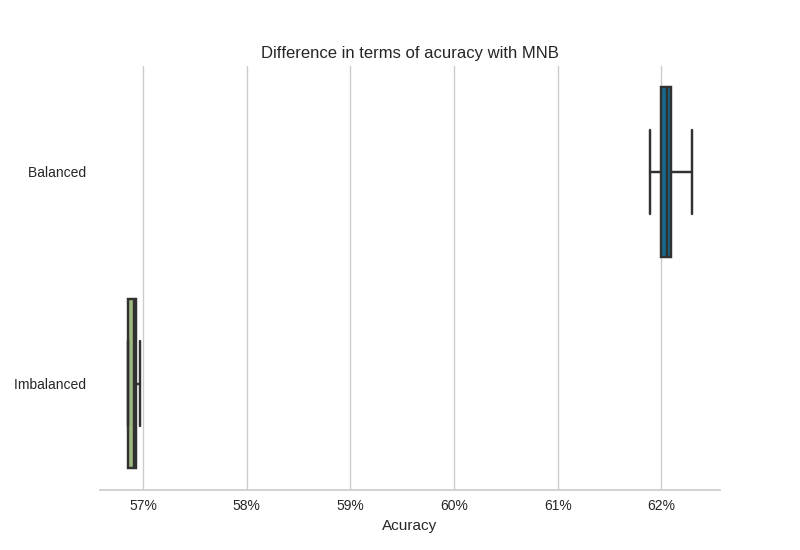
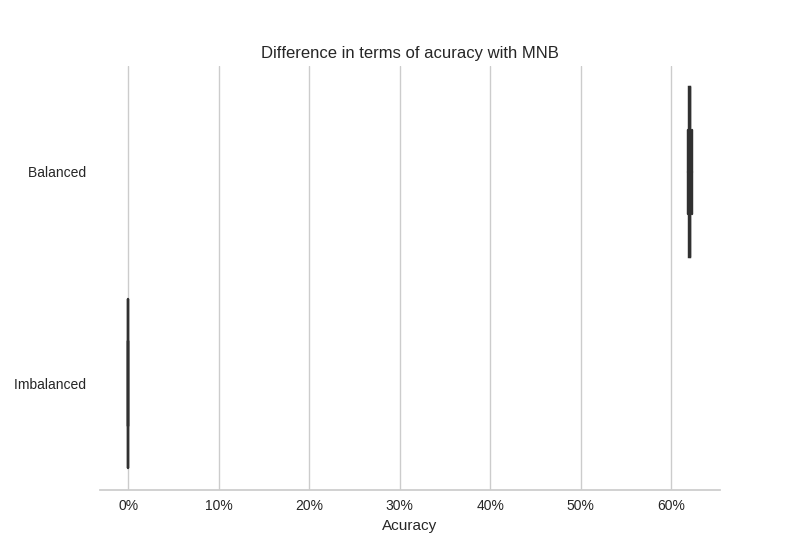
Testando um modelo que todos os dados são balanceados

diff --git a/dissertacao/5_3_selecao_modelo.py b/dissertacao/5_3_selecao_modelo.py
@@ -1,0 +1,233 @@
+import itertools
+import warnings
+import time
+import multiprocessing
+
+import numpy as np
+import pandas as pd
+import seaborn as sns
+import matplotlib.pyplot as plt
+from imblearn.under_sampling import EditedNearestNeighbours
+from sklearn.ensemble import RandomForestClassifier
+from sklearn.model_selection import cross_val_score, StratifiedKFold, \
+    StratifiedShuffleSplit
+from sklearn.naive_bayes import MultinomialNB
+from sklearn.neighbors import KNeighborsClassifier
+from sklearn.metrics import confusion_matrix, classification_report
+from sklearn.svm import SVC
+from yellowbrick.features import RFECV
+
+warnings.filterwarnings('ignore')
+pd.set_option('display.max_columns', None)  # display all columns
+pd.set_option('display.width', 2000)  # display all columns
+
+dados_completo = pd.read_csv('../input/DadosCompletoTransformadoML.csv', encoding='utf-8', delimiter='\t')
+dados_completo.drop(dados_completo.columns[0], axis=1, inplace=True)
+
+random_state = 42
+n_jobs = multiprocessing.cpu_count() - 3
+
+
+def mostrar_quantidade_por_classe(df, classe):
+    print(df.loc[df['acabamento'] == classe].info())
+
+
+def mostrar_correlacao(dados, classe):
+    matriz_correlacao = dados.corr()
+    print('Correlaçao com ' + classe + '\n', matriz_correlacao[classe].sort_values(ascending=False))
+
+    colunas = ['C', 'F', 'M', 'mat', 'peso', '% class', 'out_inc', 'fab_rac', 'area_conf', 'area_man_80_cob',
+               'area_man_20_er', 'id_ind', 'sisbov', 'cont_past', 'lita_trace', 'atest_prog_quali', 'envolvido_org',
+               'confi', 'semi_confi', 'suple', 'ferti', 'ifp', 'ilp', 'ilpf', 'lat', 'lon', 'prec', 'acab']
+    fig = plt.figure()
+    ax = fig.add_subplot(111)
+    cax = ax.matshow(matriz_correlacao, vmin=-1, vmax=1)
+    fig.colorbar(cax)
+    ticks = np.arange(0, 28, 1)
+    ax.set_xticks(ticks)
+    ax.set_yticks(ticks)
+    ax.set_xticklabels(colunas)
+    ax.set_yticklabels(colunas)
+    plt.xticks(rotation=90)
+    plt.savefig('corr.png')
+    plt.show()
+
+
+# mostrar_correlacao(dados_completo, 'acabamento')
+classes_balancear = list([2, 3])
+print('Classes para balancear', classes_balancear)
+balanceador = EditedNearestNeighbours(n_jobs=n_jobs, kind_sel='mode',
+                                      sampling_strategy=classes_balancear, n_neighbors=4)
+print(balanceador)
+
+test_size = 0.2
+train_size = 0.8
+print(((train_size * 100), '/', test_size * 100))
+X_completo = dados_completo.drop(['acabamento'], axis=1)
+Y_completo = dados_completo['acabamento']
+
+X_dados_completo, Y_dados_completo = balanceador.fit_resample(
+    dados_completo.drop('acabamento', axis=1),
+    dados_completo['acabamento'])
+X_dados_completo = pd.DataFrame(data=X_dados_completo, columns=X_completo.columns)
+Y_dados_completo = pd.DataFrame(data=Y_dados_completo, columns=['acabamento'])
+dados_completo = X_dados_completo.join(Y_dados_completo)
+
+conjunto_treinamento = pd.DataFrame()
+conjunto_teste = pd.DataFrame()
+split = StratifiedShuffleSplit(n_splits=1, train_size=train_size, test_size=test_size, random_state=random_state)
+for trainamento_index, teste_index in split.split(X_completo, Y_completo):
+    conjunto_treinamento = dados_completo.loc[trainamento_index]
+    conjunto_teste = dados_completo.loc[teste_index]
+
+conjunto_treinamento.to_csv('../input/DadosCompletoTransformadoMLBalanceadoTreino.csv', encoding='utf-8', sep='\t')
+conjunto_teste.to_csv('../input/DadosCompletoTransformadoMLBalanceadoTeste.csv', encoding='utf-8', sep='\t')
+exit()
+conjunto_treinamento = pd.read_csv('../input/DadosCompletoTransformadoMLBalanceadoTreino.csv', encoding='utf-8', delimiter='\t')
+conjunto_treinamento.drop(conjunto_treinamento.columns[0], axis=1, inplace=True)
+conjunto_teste = pd.read_csv('../input/DadosCompletoTransformadoMLBalanceadoTeste.csv', encoding='utf-8', delimiter='\t')
+conjunto_teste.drop(conjunto_teste.columns[0], axis=1, inplace=True)
+
+X_treino, Y_treino = conjunto_treinamento.drop('acabamento', axis=1), conjunto_treinamento['acabamento']
+print('X Treino', X_treino.describe())
+X_teste, Y_teste = conjunto_teste.drop('acabamento', axis=1), conjunto_teste['acabamento']
+
+resultado = pd.DataFrame()
+resultado["id"] = Y_teste.index
+resultado["item.classe"] = Y_teste.values
+resultado.to_csv("y_teste.csv", encoding='utf-8', index=False)
+
+
+def fazer_selecao_features_rfe():
+    features = X_treino.columns
+    rfe = RFECV(RandomForestClassifier(random_state=random_state, oob_score=True, n_estimators=250, criterion='entropy',
+                                       max_depth=75, max_features='log2', min_samples_leaf=1, min_samples_split=2),
+                cv=kfold, scoring='accuracy')
+
+    rfe.fit(X_treino, Y_treino.values.ravel())
+    print(rfe.poof())
+    print("Caraterísticas ordenadas pelo rank RFE:")
+    print(sorted(zip(map(lambda x: round(x, 4), rfe.ranking_), features)))
+    ranking = sorted(zip(rfe.support_, features))
+    print("Características selecionadas", ranking)
+    return rfe.transform(X_treino)
+
+
+num_folds = 5
+scoring = 'accuracy'
+kfold = StratifiedKFold(n_splits=num_folds, random_state=random_state)
+# print(fazer_selecao_features_rfe())
+# exit()
+
+# preparando alguns modelos
+modelos_base = [
+    ('MNB', MultinomialNB()),
+    ('RFC', RandomForestClassifier(random_state=random_state, oob_score=True, n_estimators=250, criterion='entropy',
+                                   max_depth=75, max_features='log2', min_samples_leaf=1, min_samples_split=2)),
+    ('K-NN', KNeighborsClassifier()),  # n_jobs=-1 roda com o mesmo número de cores
+    ('SVM', SVC())
+]
+
+
+def plot_confusion_matrix(cm, nome, classes,
+                          normalize=False,
+                          title='Confusion matrix',
+                          cmap=plt.cm.gray):
+    """
+    This function prints and plots the confusion matrix.
+    Normalization can be applied by setting `normalize=True`.
+    """
+    plt.figure()
+    if normalize:
+        cm = cm.astype('float') / cm.sum(axis=1)[:, np.newaxis]
+        np.set_printoptions(precision=2)
+        nome_arquivo = 'matriz_confusao_normalizada_' + nome + '.png'
+    else:
+        nome_arquivo = 'matriz_confusao_' + nome + '.png'
+
+    plt.imshow(cm, interpolation='nearest', cmap=cmap)
+    plt.title(title)
+    plt.colorbar()
+    tick_marks = np.arange(len(classes))
+    plt.xticks(tick_marks, classes, rotation=45)
+    plt.yticks(tick_marks, classes)
+
+    fmt = '.2f' if normalize else 'd'
+    thresh = cm.max() / 2.
+    for i, j in itertools.product(range(cm.shape[0]), range(cm.shape[1])):
+        plt.text(j, i, format(cm[i, j], fmt),
+                 horizontalalignment="center",
+                 color="black" if cm[i, j] > thresh else "white")
+
+    plt.ylabel('Actual class')
+    plt.xlabel('Predicted class')
+    plt.grid('off')
+    plt.tight_layout()
+    plt.savefig(nome_arquivo)
+
+
+def gerar_matriz_confusao(modelo, nome, tipo, X_treino, Y_treino):
+    modelo.fit(X_treino, Y_treino.values.ravel())
+    y_pred = modelo.predict(X_teste)
+    matriz_confusao = confusion_matrix(Y_teste, y_pred)
+    print('Matriz de Confusão ' + tipo)
+    print(matriz_confusao)
+    plot_confusion_matrix(matriz_confusao, nome, [1, 2, 3, 4, 5], True,
+                          title='Confusion matrix ' + nome + ', normalized')
+    plot_confusion_matrix(matriz_confusao, nome, [1, 2, 3, 4, 5], False, title='Confusion matrix ' + nome)
+    print(classification_report(y_true=Y_teste, y_pred=y_pred, digits=4))
+
+
+def rodar_modelo(modelo, nome, tipo, X_treino, Y_treino):
+    cv_resultados = cross_val_score(modelo, X_treino, Y_treino.values.ravel(), cv=kfold, scoring=scoring, n_jobs=n_jobs)
+    print('Validação cruzada ' + nome + ' :', cv_resultados)
+    print("{0}: ({1:.4f}) +/- ({2:.3f})".format(nome, cv_resultados.mean(), cv_resultados.std()))
+    if tipo == 'Balanceado':
+        gerar_matriz_confusao(modelo, nome, tipo, X_treino, Y_treino)
+    return cv_resultados
+
+
+def imprimir_acuracia(nome, df_results):
+    plt.figure()
+    sns.boxplot(y='level_0', x=0, data=df_results, whis=10.0)
+    sns.despine(top=True, right=True, left=True)
+    ax = plt.gca()
+    ax.xaxis.set_major_formatter(
+        plt.FuncFormatter(lambda x, pos: "%i%%" % (100 * x)))
+    plt.xlabel('Acuracy')
+    plt.ylabel('')
+    plt.title('Difference in terms of acuracy with ' + nome)
+    plt.savefig('acuracia' + nome + '.png')
+
+
+def rodar_algoritmos():
+    inicio = time.time()
+    melhor_modelo = modelo
+    cv_results_balanced = rodar_modelo(melhor_modelo, nome, 'Balanceado', X_treino, Y_treino)
+    cv_results_imbalanced = 0
+    # cv_results_imbalanced = rodar_modelo(melhor_modelo, nome, 'Não Balanceado',
+    #                                      conjunto_treinamento.drop('acabamento', axis=1),
+    #                                      conjunto_treinamento['acabamento'])
+    # mostrar_features_mais_importantes(melhor_modelo)
+
+    final = time.time()
+    print('Tempo de execução do ' + nome + ': {0:.4f} segundos'.format(final - inicio))
+    return cv_results_balanced, cv_results_imbalanced
+
+
+def mostrar_features_mais_importantes(melhor_modelo):
+    if nome == 'RFC':
+        melhor_modelo.fit(X_treino, Y_treino.values.ravel())
+        print('Características mais importantes RFC :')
+        feature_importances = pd.DataFrame(melhor_modelo.feature_importances_,
+                                           index=X_treino.columns,
+                                           columns=['importance']).sort_values('importance', ascending=False)
+        print(feature_importances)
+
+
+for nome, modelo in modelos_base:
+    cv_results_balanced, cv_results_imbalanced = rodar_algoritmos()
+    df_results = (pd.DataFrame({'Balanced ': cv_results_balanced,
+                                'Imbalanced ': cv_results_imbalanced})
+                  .unstack().reset_index())
+    imprimir_acuracia(nome, df_results)
